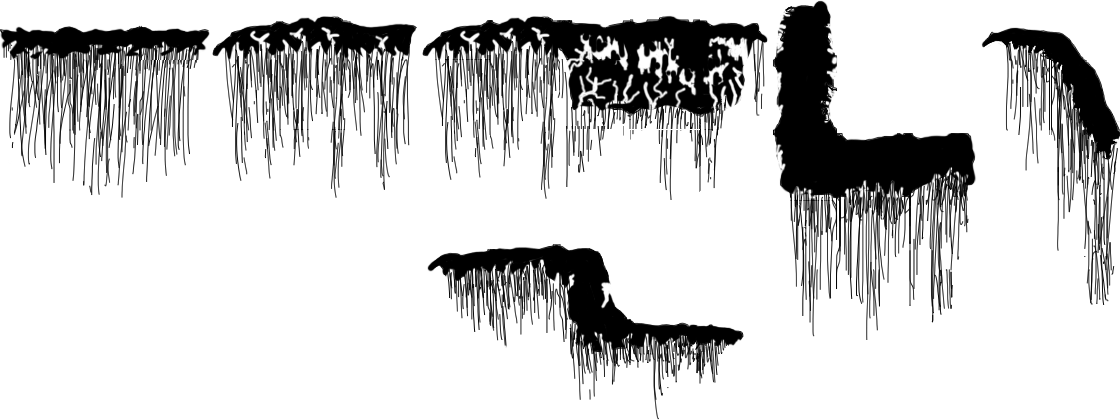
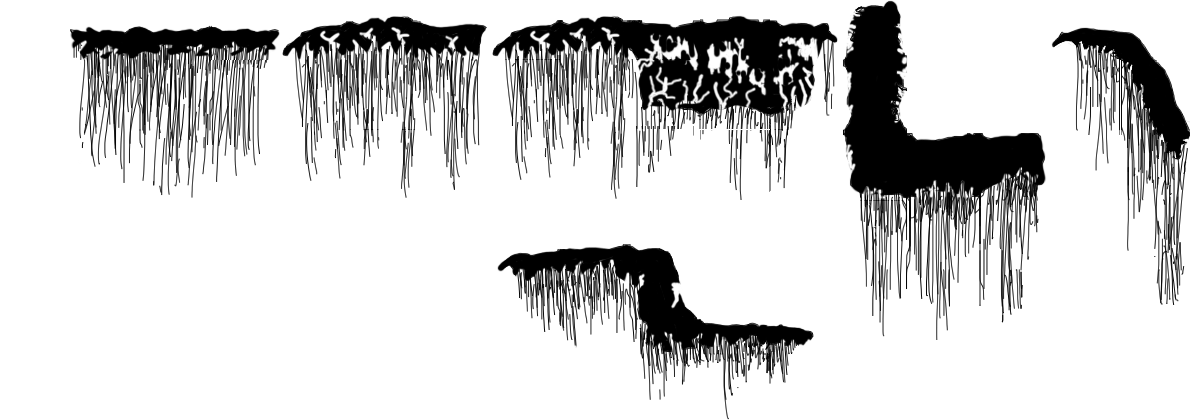
Added new background

Changed region(s): [[0.0, 0.0, 0.9062, 0.8048], [0.375, 0.5881, 0.6875, 0.9595], [0.875, 0.0619, 1.0, 0.7429]]

diff --git a/src/js/menu.js b/src/js/menu.js
@@ -4,6 +4,7 @@
   function Menu() {
     this.titleTxt = null;
     this.startTxt = null;
+    this.playButton = null;
   }
 
   Menu.prototype = {
@@ -12,7 +13,7 @@
       var x = this.game.width / 2
         , y = this.game.height / 2;
 
-
+      /*
       this.titleTxt = this.add.bitmapText(x, y, 'minecraftia', 'Example Game' );
       this.titleTxt.align = 'center';
       this.titleTxt.x = this.game.width / 2 - this.titleTxt.textWidth / 2;
@@ -21,7 +22,9 @@
       this.startTxt = this.add.bitmapText(x, y, 'minecraftia', 'START');
       this.startTxt.align = 'center';
       this.startTxt.x = this.game.width / 2 - this.startTxt.textWidth / 2;
-
+      */
+      this.principal_background = this.add.sprite(0, 0, 'principal_background');
+      this.playButton = this.add.button(200, 375, 'options_button', function() { this.game.state.start('options') }, this, 1, 0, 0);
       this.input.onDown.add(this.onDown, this);
     },
 

diff --git a/src/js/preloader.js b/src/js/preloader.js
@@ -14,9 +14,11 @@
 
       this.load.onLoadComplete.addOnce(this.onLoadComplete, this);
       this.load.setPreloadSprite(this.asset);
+      this.load.image('principal_background', 'assets/principal_background.png');
+      this.load.spritesheet('button_play', 'assets/button_play.png', 278, 137);
       this.load.tilemap('map_prototype', 'assets/map.json', null, Phaser.Tilemap.TILED_JSON);
       this.load.image('tiles', 'assets/plataformas.png');
-    
+      
       this.load.image('player', 'assets/phaser-dude.png');
       this.load.bitmapFont('minecraftia', 'assets/minecraftia.png', 'assets/minecraftia.xml');
     },
